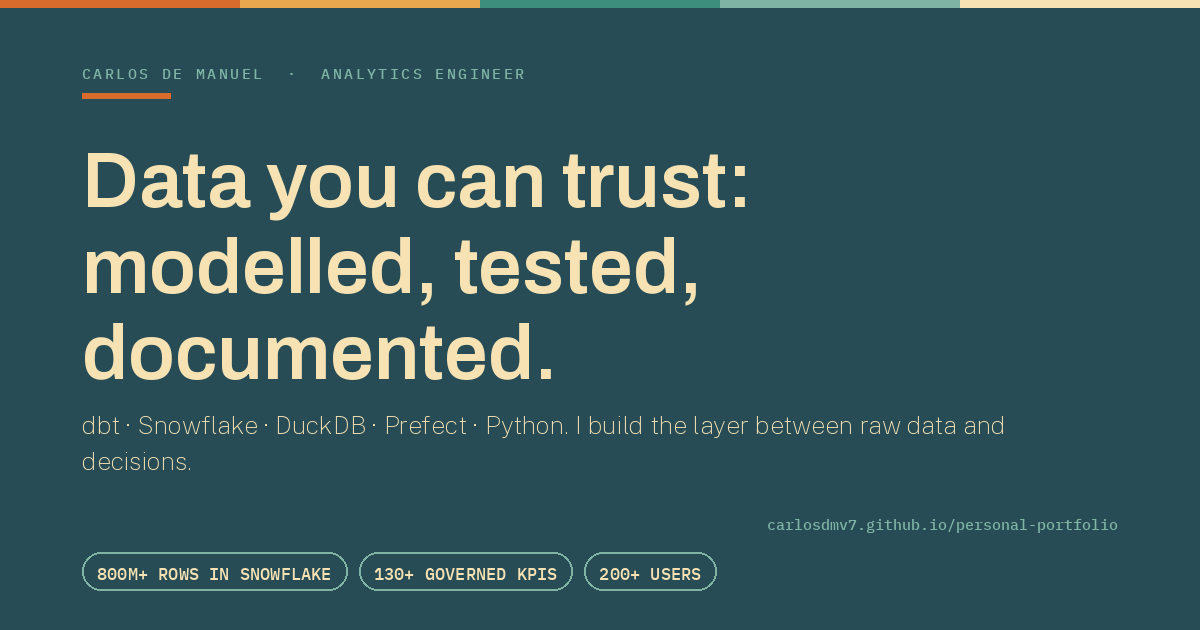
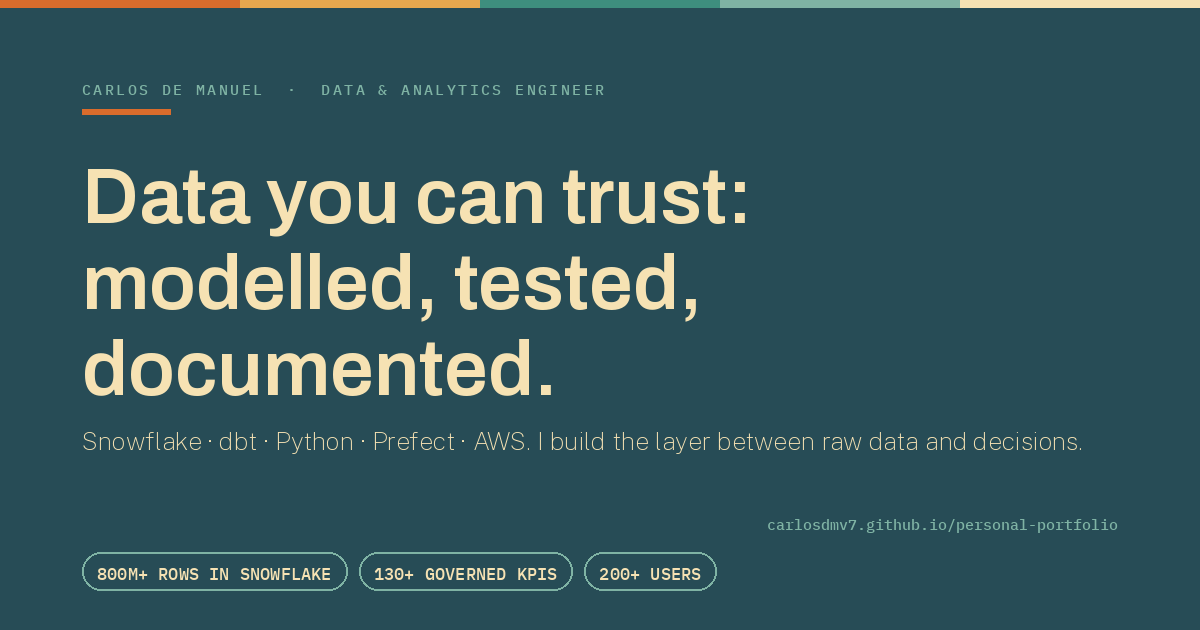
chore: align the role string, and write down the rules an agent needs
The site now says "Data & Analytics Engineer" everywhere the reader looks,
but three places the reader doesn't still said "Analytics Engineer": the
og:image the card is generated from, that image's alt text, and the README
heading. The og card also still led its stack line with DuckDB, which
belongs to the personal projects rather than the production one.

AGENTS.md records what the README doesn't: the Job Market Intelligence
claims that would be false, which until now only existed in a brief outside
this repo, and the checks that stand in for opening a browser. It points at
the README for the ground rules instead of restating them, so there is one
copy to keep true.

Link checking widens from ./README.md to ./*.md so AGENTS.md is covered too.

diff --git a/index.html b/index.html
@@ -16,7 +16,7 @@
     <meta property="og:image" content="https://carlosdmv7.github.io/personal-portfolio/images/og-home.png">
     <meta property="og:image:width" content="1200">
     <meta property="og:image:height" content="630">
-    <meta property="og:image:alt" content="Carlos De Manuel, Analytics Engineer — “Data you can trust: modelled, tested, documented.”">
+    <meta property="og:image:alt" content="Carlos De Manuel, Data &amp; Analytics Engineer — “Data you can trust: modelled, tested, documented.”">
     <meta name="twitter:card" content="summary_large_image">
     <meta name="twitter:title" content="Carlos De Manuel — Data &amp; Analytics Engineer">
     <meta name="twitter:description" content="Data &amp; Analytics Engineer building governed analytics on Snowflake, dbt, Prefect and AWS for a global manufacturer.">

diff --git a/tools/make-og-images.py b/tools/make-og-images.py
@@ -33,9 +33,9 @@ PAD = 82
 
 CARDS = {
     "og-home": {
-        "eyebrow": "CARLOS DE MANUEL  ·  ANALYTICS ENGINEER",
+        "eyebrow": "CARLOS DE MANUEL  ·  DATA & ANALYTICS ENGINEER",
         "headline": "Data you can trust:\nmodelled, tested,\ndocumented.",
-        "sub": "dbt · Snowflake · DuckDB · Prefect · Python. I build the layer "
+        "sub": "Snowflake · dbt · Python · Prefect · AWS. I build the layer "
                "between raw data and decisions.",
         "chips": ["800M+ ROWS IN SNOWFLAKE", "130+ GOVERNED KPIS", "200+ USERS"],
     },

diff --git a/AGENTS.md b/AGENTS.md
@@ -1,0 +1,62 @@
+# Working in this repo
+
+Static HTML/CSS/JS, no build step, deployed from the repo root by GitHub Pages.
+There is nothing to compile: edit the file, push, it is live.
+
+Read [README.md](README.md) first — the ground rules live there, not here.
+This file only covers what an agent gets wrong that a human reading the README
+would not.
+
+## The one rule that matters
+
+**Every figure on this site is a claim about a real system, and a reader can
+check it.** Re-read it from the artefact — `target/manifest.json`, a seed's row
+count, a warehouse query — and never carry one over from memory or from an
+earlier draft in the same session. A number that was right last month is the
+most convincing way to be wrong.
+
+The same applies to the job title in the experience section. It is verifiable in
+a reference call. Do not smooth it into something that sells better.
+
+## Claims that would be false
+
+The Job Market Intelligence case study is close enough to several true things
+that the false version reads fine. It is a *portfolio*, so being caught once
+costs more than the claim ever earned:
+
+| Do not write | Because |
+|---|---|
+| "Orchestrated with Prefect" | The flows are Prefect-*instrumented*; the scheduler is a GitHub Actions cron. |
+| Docker, Kubernetes, containers | None are used. |
+| Any classifier accuracy figure | There is no labelled evaluation set. "Labelling in progress" is not a way around this. |
+| "Netherlands-focused" | Spain is the largest market in the corpus. |
+| "Complete market coverage" | It is partial. State the share; do not round it up or drop it. |
+| "Secure" or "hardened" text-to-SQL | It is guard-railed, which is a weaker and honest word. |
+
+Partial coverage is a feature of the write-up, not an embarrassment to manage.
+
+## Before saying it is done
+
+No browser is available here, so these are the checks that stand in for looking
+at the page:
+
+```bash
+python3 tools/contrast-check.py                  # must exit 0
+lychee --config lychee.toml './**/*.html' './README.md' './docs/**/*.md'
+```
+
+Also parse every touched HTML file for tag balance — an unclosed `<div>` in a
+case study does not fail any of the above, and silently collapses the layout.
+That one has bitten twice.
+
+After pushing, `gh run list` and a `curl | grep` against the live URL, because
+"the commit landed" is not the same claim as "the page says what I meant".
+
+## Conventions
+
+Conventional Commits. Branch and open a PR rather than pushing to `main`; the
+link check runs on PRs, which is the point of having it.
+
+Copy is British English, plain, and short. Match the voice already on the page:
+concrete nouns, no "leveraged", no "passionate", no em-dash-joined superlatives.
+If an existing entry is three bullets, write three bullets.

diff --git a/README.md b/README.md
@@ -1,4 +1,4 @@
-# Carlos De Manuel — Analytics Engineer
+# Carlos De Manuel — Data & Analytics Engineer
 
 Personal portfolio. Static HTML/CSS/JS, no build step, served from GitHub Pages
 at **<https://carlosdmv7.github.io/personal-portfolio/>**.
@@ -7,6 +7,7 @@ at **<https://carlosdmv7.github.io/personal-portfolio/>**.
 
 ```
 index.html                                  home
+AGENTS.md                                   repo conventions + the claims that would be false
 projects/job-market-intelligence/           case study (own URL, title, og:image)
 projects/spanish-housing-radar/             case study
 styles.css                                  design system — all colour lives in :root
@@ -83,7 +84,7 @@ is the one that matters, since a repo someone renames doesn't push a commit
 here. Any 4xx fails the build.
 
 ```bash
-lychee --config lychee.toml './**/*.html' './README.md' './docs/**/*.md'
+lychee --config lychee.toml './**/*.html' './*.md' './docs/**/*.md'
 ```
 
 Two things are excluded on purpose, both documented in `lychee.toml`: LinkedIn
